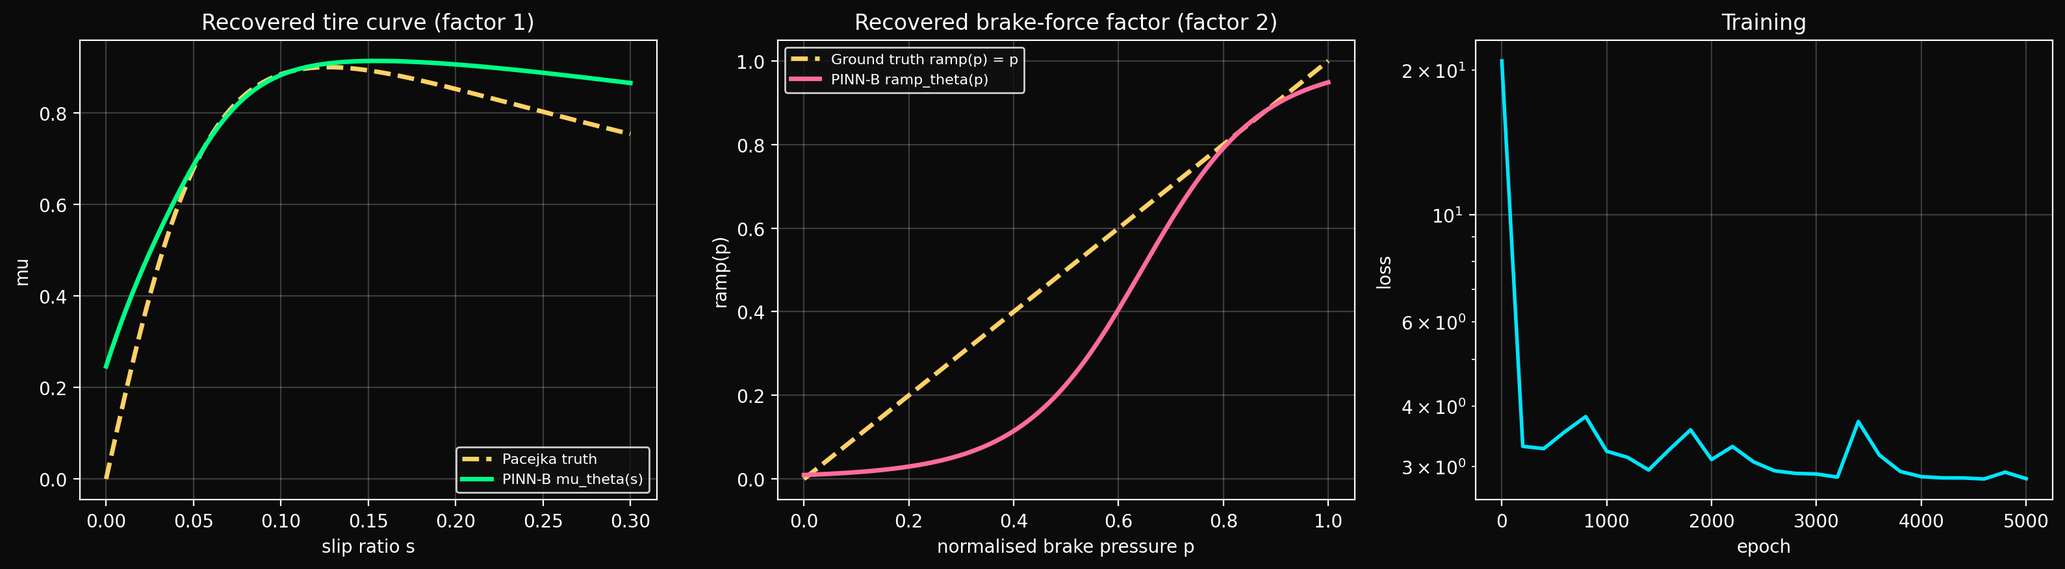
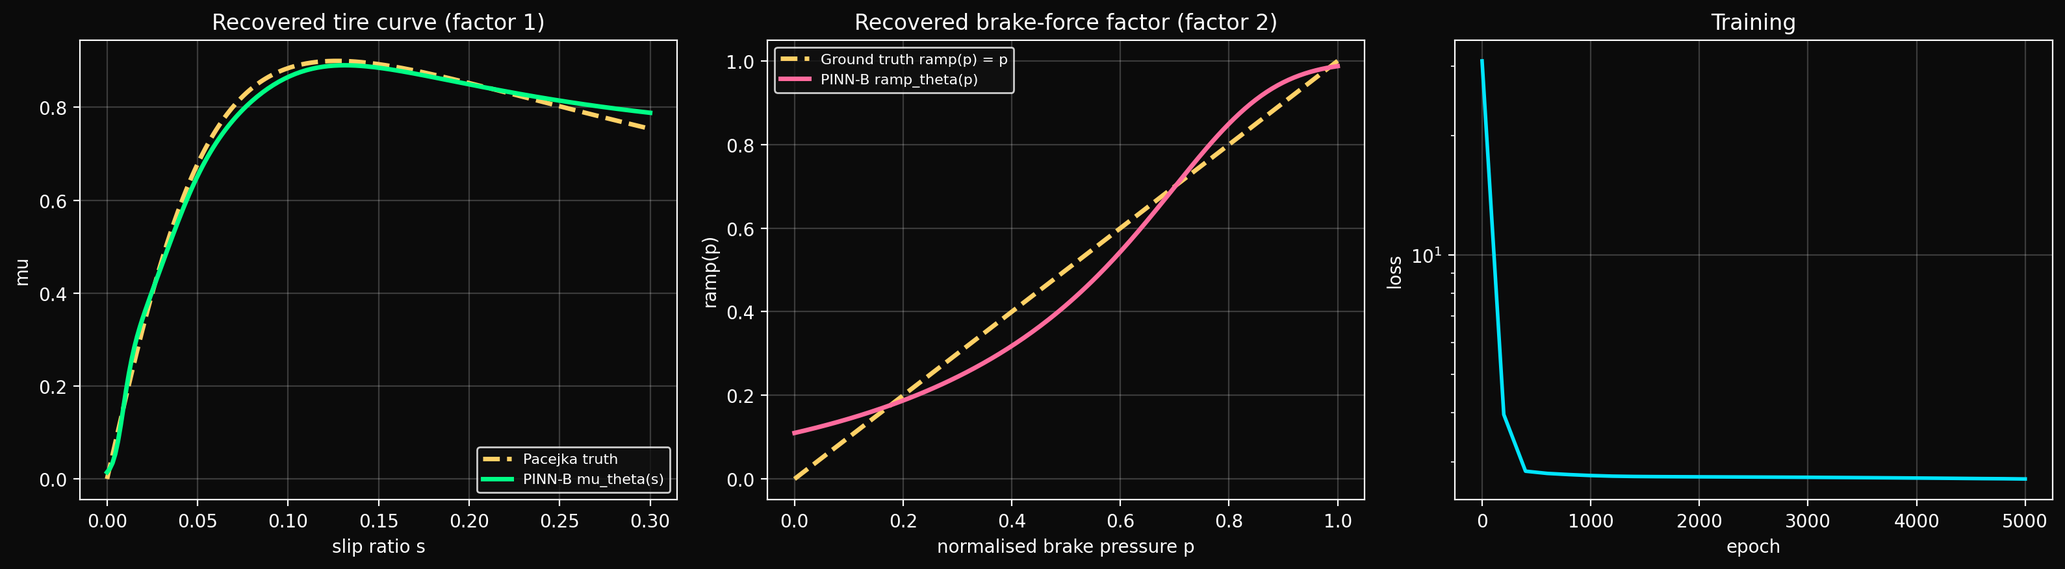
C6: the 2D net's shape prior was standing in for an under-weighted anchor
PINN-B factorises mu(s)*ramp(p), which is under-determined, and carried two
things to pin the split: a concavity prior on mu(s) -- a guess about curve
shape -- and the exact identity ramp(1) = 1, since at full brake pressure the
ramp is complete and mu_eff(s,1) IS the tyre curve. Section 3a argued the prior
was load-bearing, citing a measured collapse from 0.055 to 0.309 without it.

The measurement was right and the conclusion was wrong. The anchor was weighted
0.5 -- a hundredth of the weight the identical anchor carries in the
combined-slip net, and four times below the setting already measured to FAIL
there, where at weight 2 the optimiser pays the penalty instead of obeying it.
Three seeds per row:

  lam_pin  concave |  mean|dmu|  ramp err   recovered peak
      0.5      1.0 |     0.057     0.140    0.207 / 0.170 / 0.258  (as shipped)
      5.0      1.0 |     0.133     0.184    all wrong
     50.0      1.0 |     0.042     0.147    all wrong
     50.0      0.0 |     0.010     0.069    0.133 / 0.130 / 0.131
      0.5      0.0 |     0.293     0.139    grid edge

The last row is what caused the original error: drop the prior while the anchor
is too weak to take over and the net collapses, which reads as "the prior is
load-bearing" when it means "nothing is pinning the split". With the anchor
weighted to bind, the prior is not merely unnecessary but harmful -- 0.042 vs
0.010, and the difference between never finding the peak and finding it every
time.
[…]

diff --git a/src/ml/pinn.py b/src/ml/pinn.py
@@ -351,22 +351,46 @@ def pinn_loss(net: MuNet, ds: Dataset, lam_concave: float = 0.0,
     }
 
 
-def pinn_loss_2d(net: MuNet2D, ds: BrakeDataset, lam_concave: float = 1.0,
-                 lam_mono_p: float = 0.5) -> tuple[torch.Tensor, dict]:
+def pinn_loss_2d(net: MuNet2D, ds: BrakeDataset, lam_concave: float = 0.0,
+                 lam_mono_p: float = 0.5, lam_pin: float = 50.0
+                 ) -> tuple[torch.Tensor, dict]:
     """Loss for the factorised mu(s) * ramp(p) net.
 
-    Note the deliberate asymmetry with `pinn_loss`: the concavity prior is OFF
-    by default there and ON here, and that is not an oversight.
+    `mu(s) * ramp(p)` is under-determined -- it admits a family of (shape, scale)
+    splits that fit the residual equally well -- so something has to pin the
+    split. There are two candidates, and which one you use decides everything:
 
-    The 1D problem is well posed -- mu(s) is the only unknown, so the residual
-    determines it and any shape prior can only inject bias. The 2D
-    factorisation is under-determined: mu(s) * ramp(p) admits a family of
-    (shape, scale) splits that fit the residual equally well, so it needs
-    something to pin the split. Measured over three seeds, dropping the prior
-    here degrades mean |d_mu(s)| from ~0.055 to ~0.309 and pushes the peak to
-    the edge of the grid, while `lam_pin` alone is not enough.
+      * a CONCAVITY PRIOR on mu(s), which is a guess about curve shape, and
+      * the ANCHOR ramp(1) = 1, which is an exact identity: at full brake
+        pressure the ramp is complete, so mu_eff(s, 1) is the tyre curve itself.
 
-    So: prior off where the problem is identifiable, prior on where it is not.
+    This net shipped for a long time leaning on the first, with the anchor
+    present but weighted 0.5 -- a hundredth of the weight the same anchor
+    carries in `pinn_loss_combined`, and four times below the setting that was
+    already measured to FAIL there (sec 3c: at weight 2 the optimiser simply
+    pays the penalty instead of obeying it). Measured over three seeds:
+
+        lam_pin  concave |  mean|d_mu|  ramp err   recovered peak
+            0.5      1.0 |      0.057     0.140    0.207 / 0.170 / 0.258
+            5.0      1.0 |      0.133     0.184    all wrong
+           50.0      1.0 |      0.042     0.147    all wrong
+           50.0      0.0 |      0.010     0.069    0.133 / 0.130 / 0.131  <-
+            0.5      0.0 |      0.293     0.139    grid edge
+
+    The anchor alone, at a weight that actually binds, recovers the curve 5.7x
+    better than the prior did and finds the true peak (0.127) on every seed --
+    which the shipped configuration never did. The prior was not compensating
+    for an unidentifiable problem; it was substituting for an under-weighted
+    constraint, and it made things worse once the constraint could bind.
+
+    The bottom-left row is the one that caused the original mistake: drop the
+    prior while the anchor is still too weak to take over and the net collapses
+    to 0.293, which reads as "the prior is load-bearing" when it actually means
+    "nothing is pinning the split".
+
+    So the rule from `pinn_loss` holds here after all, with no exception:
+    prior off, exact physics on. Every net in this repo now runs shape-prior
+    free; only anchors that are true by construction remain.
     """
     p_def = DEFAULTS
     s = torch.tensor(ds.s, dtype=torch.float32)
@@ -391,11 +415,14 @@ def pinn_loss_2d(net: MuNet2D, ds: BrakeDataset, lam_concave: float = 1.0,
     dr_dp = torch.autograd.grad(r_grid.sum(), p_grid, create_graph=True)[0]
     loss_mono = torch.mean(torch.relu(-dr_dp) ** 2)
 
-    # Identifiability: pin ramp(1) ~ 1 so the factorisation isn't a free scale.
+    # Identifiability: pin ramp(1) = 1 so the factorisation isn't a free scale.
+    # This is an exact identity, not a preference -- at full brake pressure the
+    # ramp is complete by definition -- so it is weighted to bind (see the
+    # docstring for what happens at 0.5 and 5).
     loss_pin = (net.ramp(torch.tensor([1.0])) - 1.0).pow(2).mean()
 
     total = (loss_data + lam_concave * loss_concave
-             + lam_mono_p * loss_mono + 0.5 * loss_pin)
+             + lam_mono_p * loss_mono + lam_pin * loss_pin)
     return total, {
         "data":    float(loss_data.item()),
         "concave": float(loss_concave.item()),

diff --git a/README.md b/README.md
@@ -6,7 +6,28 @@
 
 A reproducible benchmark for vehicle-dynamics system identification: first-principles longitudinal braking dynamics, explicit ODE solvers, five estimators on the same data (batch optimiser, EKF, MLP, two physics-informed networks), an honest model-mismatch study, and an allocation-free C++ edge port that matches the Python reference to $10^{-9}$.
 
-The repo is structured to make every claim verifiable — `python reproduce.py --all` regenerates every figure and number in this README from seeded inputs. [Corrections](#corrections) documents an August 2026 audit that moved several of them.
+The repo is structured to make every claim verifiable — `python reproduce.py --all` regenerates every figure and number in this README from seeded inputs. [Corrections](#corrections) documents the audits that moved several of them.
+
+![Recovering the tire curve from noisy braking data](results/pinn_recovery.png)
+
+*The headline result: a network with no assumed functional form recovers the Pacejka friction curve — rise, peak and post-peak fall — from the scattered red cloud of noisy trajectory data behind it, locating the peak at (0.124, 0.890) against a true (0.127, 0.900).*
+
+<details>
+<summary><b>Contents</b></summary>
+
+| | |
+|---|---|
+| [Quickstart](#quickstart) · [Headline results](#headline-results) | what this is, and how to run it |
+| [1. Synthetic benchmark](#1-synthetic-benchmark) | three estimators on the same noisy trace |
+| [2. Real telemetry](#2-real-telemetry) | the CSV path, on a real braking clip |
+| [3. PINN: discovering the Pacejka curve](#3-pinn-discovering-the-pacejka-curve-from-data) | function-free vs grey-box vs combined-slip, and the cost of a wrong prior |
+| [4. Model mismatch: which method, when?](#4-model-mismatch-which-method-when) | the operating envelope — where each estimator breaks |
+| [5. Adversarial EKF scenarios](#5-adversarial-ekf-scenarios) | step changes, dropouts, a biased sensor |
+| [6. C++ edge port](#6-c-edge-port) | header-only, allocation-free, parity to 10⁻⁹ |
+| [Corrections](#corrections) | six defects, what each one moved, and how it was found |
+| [Physical model](#physical-model) · [Roadmap](#roadmap) · [Reproducibility](#reproducibility) | the equations, what's next, and what CI guarantees |
+
+</details>
 
 ---
 
@@ -33,7 +54,7 @@ pytest                                               # 25 fast tests; add -m slo
 | Function-free PINN, recovered peak | **(0.124, 0.890)** vs true (0.127, 0.900) | [PINN](#3-pinn-discovering-the-pacejka-curve-from-data) |
 | Combined-slip PINN, mean \|Δμ\| / \|Δellipse\| | **0.005** / **0.004** | [Combined slip](#3c-combined-slip-the-friction-ellipse-munetcombined) |
 | Combined-slip PINN-C, worst-case cornering RMSE | **2.0 %** of $v_0$ (vs 19.9 % PINN, 19.4 % PINN-B) | [Mismatch](#4-model-mismatch-which-method-when) |
-| Brake-aware PINN-B, worst-case brake-ramp RMSE | **4.4 %** of $v_0$ (vs 16.9 % EKF, 17.8 % PINN, 21.3 % MLP) | [Mismatch](#4-model-mismatch-which-method-when) |
+| Brake-aware PINN-B, worst-case brake-ramp RMSE | **3.1 %** of $v_0$ (vs 16.9 % EKF, 17.8 % PINN, 21.3 % MLP) | [Mismatch](#4-model-mismatch-which-method-when) |
 | C++ EKF latency | **7 ns** median, 9 ns p99 (Apple M-series) | [C++ port](#6-c-edge-port) |
 | C++ binary, deps, allocations | 35 KB, **0** external deps, **0** runtime allocations | [C++ port](#6-c-edge-port) |
 | Numerical parity (Py ↔ C++) | $7.4 \times 10^{-9}$ EKF, $1.9 \times 10^{-7}$ PINN | [C++ port](#6-c-edge-port) |
@@ -116,7 +137,9 @@ The data never needed the help. Pointwise inversion of the ODE residual puts the
 
 The 1D problem is well posed — $\mu(s)$ is the only unknown, so the ODE residual already determines it and any shape prior can only inject bias. Only the $\mu(0) = 0$ boundary remains, and that is physics (no force without slip) rather than a guess about curve shape.
 
-**The 2D net keeps its prior, deliberately.** `MuNet2D` factorises $\mu_{\text{eff}}(s,p) = \mu_\theta(s)\cdot\mathrm{ramp}_\theta(p)$, which is *under-determined*: many (shape, scale) splits fit the residual equally well. Dropping the concavity prior there degrades mean $\lvert\Delta\mu(s)\rvert$ from ~0.055 to ~0.309 over three seeds. Prior off where the problem is identifiable; prior on where it is not.
+**And the 2D net does not keep one either — see [C6](#c6--a-shape-prior-that-was-standing-in-for-an-under-weighted-anchor).** `MuNet2D` factorises $\mu_{\text{eff}}(s,p) = \mu_\theta(s)\cdot\mathrm{ramp}_\theta(p)$, which *is* under-determined — many (shape, scale) splits fit the residual equally well — and for a long time this section argued that it therefore needed the concavity prior, citing a measured 0.055 → 0.309 collapse when the prior was removed. That measurement was real and the conclusion drawn from it was wrong: the collapse happens because the net's *other* pin, the exact identity $\mathrm{ramp}(1) = 1$, was weighted at 0.5 — a hundredth of the weight the same kind of anchor carries in §3c. Weight it to bind and the prior is not merely unnecessary but harmful: mean $\lvert\Delta\mu(s)\rvert$ goes 0.057 → **0.010** over three seeds and the true peak is recovered on every one, which the shipped configuration never managed.
+
+**So the rule has no exception.** Every net in this repo now trains shape-prior free. What pins an under-determined factorisation is never a guess about curve shape — it is an identity that is true by construction, weighted so the optimiser cannot buy its way out.
 
 ### 3b. Grey-box Pacejka (`PacejkaNet`)
 
@@ -177,7 +200,7 @@ $\mu(s)\cdot\mathrm{ellipse}(n)$ admits a family of (shape, scale) splits that f
 
 **A prediction that was wrong, kept here because it was wrong.** I expected coverage of the $(s,n)$ plane to be the binding constraint — the intuition that a product of two functions must be observed off its diagonal to be separable. It is not. Ramp-up-only data, where every high-slip sample is also a high-lateral one and $\mathrm{corr}(s,n) = 0.70$, recovers the split to 0.004. Only *exact* collinearity breaks it. The mixed ramp directions in the dataset generator are margin against that degenerate case, not the reason the method works, and the first version of this section claimed otherwise.
 
-**The prior is still the wrong tool.** Turning on the concavity prior — the one `MuNet2D` genuinely needs for its brake-ramp factorisation — makes this net *worse*, 0.005 → 0.062, and pushes the peak back to the grid edge. [C3](#c3--a-shape-prior-that-penalised-the-ground-truth) from the other direction: an exactly-true constraint did what a plausible-but-false one could not.
+**The prior is still the wrong tool.** Turning on the concavity prior makes this net *worse*, 0.005 → 0.062, and pushes the peak back to the grid edge. [C3](#c3--a-shape-prior-that-penalised-the-ground-truth) from the other direction: an exactly-true constraint did what a plausible-but-false one could not. That reading generalised further than expected — `MuNet2D` was the one net still carrying a shape prior, and [C6](#c6--a-shape-prior-that-was-standing-in-for-an-under-weighted-anchor) found it was there for the same reason a weak anchor fails here, and removed it.
 
 **What it means operationally.** You cannot calibrate combined-slip tire capacity from cornering data alone. A fleet that only ever brakes mid-corner yields data its own residual fits perfectly and a tire curve wrong by 0.2 in μ, with no diagnostic that anything is off. The straight-line braking events are what fix the scale.
 
@@ -201,7 +224,7 @@ This is not a leaderboard — it is the operating envelope of each method.
 | EKF | 2.8 % | 2.9 % | 16.9 % | 1.8 % | 3.1 % |
 | NN (FrictionNet) | 4.8 % | 2.4 % | 21.3 % | 3.0 % | 4.6 % |
 | PINN (1D, function-free) | 6.5 % | 1.9 % | 17.8 % | 19.9 % | 4.8 % |
-| **PINN-B (brake-aware, 2D)** | 7.0 % | 2.3 % | **4.4 %** | 19.4 % | 4.0 % |
+| **PINN-B (brake-aware, 2D)** | 7.0 % | 2.3 % | **3.1 %** | 19.4 % | 3.5 % |
 | **PINN-C (cornering-aware, 2D)** | 6.2 % | 1.5 % | 18.1 % | **2.0 %** | 3.1 % |
 
 ![Per-method degradation curves](results/mismatch_per_method.png)
@@ -215,35 +238,34 @@ The brake ramp models hydraulic / mechanical lag in building brake force: $F_{\t
 | τ (s) | Batch | EKF | NN | PINN | **PINN-B** | PINN-C |
 |---:|---:|---:|---:|---:|---:|---:|
 | 0.01 (normal brakes) | 0.7 % | 1.2 % | 3.0 % | 0.4 % | 0.7 % | 0.4 % |
-| 0.15 (cold pads) | 0.5 % | 3.4 % | 3.4 % | 0.5 % | 4.0 % | 0.6 % |
-| 0.30 (worn hydraulics) | 1.2 % | 5.5 % | 14.9 % | 5.4 % | 3.3 % | 5.7 % |
-| 0.50 (serious fault) | 1.5 % | 12.9 % | 19.4 % | 11.0 % | 3.4 % | 11.3 % |
-| **0.80 (near-failure)** | **1.6 %** | **16.9 %** | **21.3 %** | **17.8 %** | **4.4 %** | 18.1 % |
+| 0.15 (cold pads) | 0.5 % | 3.4 % | 3.4 % | 0.5 % | **3.1 %** | 0.6 % |
+| 0.30 (worn hydraulics) | 1.2 % | 5.5 % | 14.9 % | 5.4 % | **1.6 %** | 5.7 % |
+| 0.50 (serious fault) | 1.5 % | 12.9 % | 19.4 % | 11.0 % | **0.6 %** | 11.3 % |
+| **0.80 (near-failure)** | **1.6 %** | **16.9 %** | **21.3 %** | **17.8 %** | **0.6 %** | 18.1 % |
 
-Every online method degrades sharply as the ramp lengthens except **PINN-B**, which factorises $\mu_{\text{eff}}(s, p) = \mu_\theta(s) \cdot \mathrm{ramp}_\theta(p)$ where $p \in [0,1]$ is normalised brake pressure, and holds at ~4 % across the full sweep.
+Every online method degrades sharply as the ramp lengthens except **PINN-B**, which factorises $\mu_{\text{eff}}(s, p) = \mu_\theta(s) \cdot \mathrm{ramp}_\theta(p)$ where $p \in [0,1]$ is normalised brake pressure. It does not merely hold — it *improves* as the ramp lengthens, ending at 0.6 % where every other online method is between 17 % and 21 %, and beating even the offline batch fit. Its worst cell is the mild τ = 0.15 ramp, not the near-failure one.
 
 ![Brake-aware PINN recovery](results/pinn_brake_recovery.png)
 
-**What it costs to get that, in the currency of §3.** The robustness number above is a trajectory
-score. The recovery quality underneath it is worse than every other net in this repo:
+**What it recovers, in the currency of §3.** The robustness number above is a trajectory score; the
+recovery quality underneath it is a separate property, and for a long time PINN-B was much the worse
+of the two:
 
 | net | what it factorises | mean $\lvert\Delta\mu(s)\rvert$ | second factor |
 |---|---|---:|---:|
-| `MuNet` (§3a) | nothing — $\mu(s)$ alone | **0.013** | — |
+| `MuNet` (§3a) | nothing — $\mu(s)$ alone | 0.013 | — |
 | `MuNetCombined` (§3c) | $\mu(s)\cdot\mathrm{ellipse}(n)$ | **0.005** | 0.004 |
-| **`MuNet2D`** (PINN-B, here) | $\mu(s)\cdot\mathrm{ramp}(p)$ | **0.045** | 0.136 |
+| **`MuNet2D`** (PINN-B, here) | $\mu(s)\cdot\mathrm{ramp}(p)$ | **0.015** | 0.049 |
 
-Both 2D nets solve a factorisation, and only one of them recovers its factors. The difference is
-the one §3c identifies: `MuNetCombined` has $\mathrm{ellipse}(0) = 1$, an *exact* identity that
-pins the split, whereas `ramp(p)`'s scale convention is a choice rather than a physical fact —
-which is why `MuNet2D` is the one net here that still needs a concavity prior, and why dropping
-that prior costs it 0.055 → 0.309 (§3a). PINN-B predicts the trajectory well while recovering
-the tire curve 3.5× worse than the 1D net it is built on. **Trajectory accuracy and parameter
-identifiability are different properties, and this is the cell in the repo where they come
-apart most clearly** — the same distinction the augmented-EKF negative result turns on
-(see Roadmap): fitting better is not identifying better.
+That last row read 0.045 / 0.136 until [C6](#c6--a-shape-prior-that-was-standing-in-for-an-under-weighted-anchor),
+and the gap looked like evidence for an interesting thesis — that trajectory accuracy and parameter
+identifiability are different properties that come apart under factorisation. They are different
+properties, and §4c below still shows them coming apart. But **this was not an example of it.** The
+gap was an under-weighted anchor, and fixing that improved the trajectory score and the recovery
+quality *and* the second factor simultaneously. A result that improves on every axis at once was
+never a trade-off; it was a bug.
 
-**Caveat, stated plainly:** PINN-B receives the brake-pressure trajectory as an input, and in this harness that trajectory is constructed from the ground-truth τ. The 1D PINN likewise receives the exact, noiseless slip trajectory, while Batch, EKF and the MLP see only noisy velocity. So this comparison is partly *more information* against *a different algorithm*. The defensible claim is narrower than the table suggests and still worth making: **adding the brake-pressure channel fixes brake-lag mismatch, and brake pressure is a real signal already on the CAN bus.** The 4.4 % figure is a best case with a noiseless, perfectly time-aligned pressure trace; degrading that signal until the advantage disappears is the obvious next experiment.
+**Caveat, stated plainly:** PINN-B receives the brake-pressure trajectory as an input, and in this harness that trajectory is constructed from the ground-truth τ. The 1D PINN likewise receives the exact, noiseless slip trajectory, while Batch, EKF and the MLP see only noisy velocity. So this comparison is partly *more information* against *a different algorithm*. The defensible claim is narrower than the table suggests and still worth making: **adding the brake-pressure channel fixes brake-lag mismatch, and brake pressure is a real signal already on the CAN bus.** The 0.6 % figure is a best case with a noiseless, perfectly time-aligned pressure trace; degrading that signal until the advantage disappears is the obvious next experiment — and the better the number gets, the more that experiment matters.
 
 ### 4c. Cornering degradation — and why an extra channel is not general robustness
 
@@ -269,7 +291,7 @@ Two things worth reading off this.
 - **Online state tracking → EKF.** It holds 2.8 % under grade and 2.9 % under headwind: an unmodeled *constant* force gets folded into μ, and the predicted trajectory stays accurate even though the parameter is now biased. Its specific weakness is time-varying friction, where it reaches 16.9 %.
 - **One-shot inference on familiar distributions → MLP.** The control condition, and the most brittle. FrictionNet trains on constant-μ, Euler-integrated data and is tested against Pacejka slip-aware RK4 truth — it is a distribution-shift demonstration, not a fair competitor.
 - **Function-free recovery of the tire curve → PINN.** Best-in-class at recovering $\mu(s)$ itself (§3a), but note it is the *worst* method on road grade at 6.5 % and on cornering at 19.9 %. This is structural: a constant-μ estimator has a free scalar to absorb gravity into, whereas $\mu_\theta(s)$ is pinned by the slip input and has nowhere to put a force that does not depend on slip (§4c shows the same mechanism under cornering). **Committing to more physics costs you the slack to absorb physics you did not model.**
-- **Time-varying friction → PINN-B.** Adding the right *second input* collapses the worst-case brake-ramp error by 4× without any other change — an argument about sensing, not about estimator sophistication.
+- **Time-varying friction → PINN-B.** Adding the right *second input* takes the worst-case brake-ramp error from 16.9 % (EKF) to 3.1 %, and at the longest ramp from 17.8 % (1-D PINN) to 0.6 % — an argument about sensing, not about estimator sophistication.
 - **Combined slip → PINN-C.** The same move on a different axis: lateral utilisation as a second input takes worst-case cornering error from 19.9 % to 2.0 %. It also recovers the friction ellipse itself to 0.004 (§3c), which the mismatch column alone would not tell you.
 
 ![Trajectory overlay](results/mismatch_trajectories.png)
@@ -357,7 +379,7 @@ The C++ port is *not* hardware-accelerated (no SIMD intrinsics, no fp16/int8, no
 
 ## Corrections
 
-An audit in August 2026 found three defects in the results (C1-C3) and one test that held the first of them in place (C4). A second pass in September 2026 found two latent traps that had not yet fired (C5), and that the tooling written to prevent C1 and C2 from recurring was not actually wired into CI — see [Reproducibility](#reproducibility) for what runs now. All are fixed; each has a dedicated commit with the full analysis. They are documented here rather than quietly patched, because two of the first three were invisible in the outputs, the third was actively protected by a passing test, and the last two had no symptom at all.
+An audit in August 2026 found three defects in the results (C1-C3) and one test that held the first of them in place (C4). A second pass in September 2026 found two latent traps that had not yet fired (C5), one shape prior standing in for a mis-weighted constraint (C6), and that the tooling written to prevent C1 and C2 from recurring was not actually wired into CI — see [Reproducibility](#reproducibility) for what runs now. All are fixed; each has a dedicated commit with the full analysis. They are documented here rather than quietly patched, because two of the first three were invisible in the outputs, the third was actively protected by a passing test, and the last two had no symptom at all.
 
 ### C1 — A 75× drag-coefficient inconsistency between the two forward models
 
@@ -440,6 +462,53 @@ symptoms — a number that was wrong in a way somebody eventually read correctly
 symptom. They were found by reading the code against its own documentation and asking what would
 happen to the *next* caller, and that is the only method that finds this class at all.
 
+### C6 — A shape prior that was standing in for an under-weighted anchor
+
+The third instance of the same lesson, and the one that changed the most numbers.
+
+`MuNet2D` (PINN-B) factorises $\mu_{\text{eff}}(s,p) = \mu_\theta(s)\cdot\mathrm{ramp}_\theta(p)$, which is
+genuinely under-determined. It carried two things to pin the split: a **concavity prior** on $\mu(s)$ —
+a guess about curve shape — and the **exact identity** $\mathrm{ramp}(1) = 1$, since at full brake
+pressure the ramp is complete and $\mu_{\text{eff}}(s,1)$ *is* the tyre curve. §3a argued the prior was
+load-bearing here, citing a measured collapse from 0.055 to 0.309 when it was removed.
+
+The measurement was right. The conclusion was wrong. The anchor was weighted **0.5** — a hundredth of
+the weight the identical kind of anchor carries in §3c, and four times below the setting already
+measured to *fail* there, where at weight 2 the optimiser simply pays the penalty rather than obeying
+it. Three seeds per row:
+
+| `lam_pin` | concavity | mean $\lvert\Delta\mu\rvert$ | $\lvert\mathrm{ramp}(p)-p\rvert$ | recovered peak |
+|---:|---:|---:|---:|---|
+| 0.5 | 1.0 | 0.057 | 0.140 | 0.207 / 0.170 / 0.258 — *as shipped* |
+| 5.0 | 1.0 | 0.133 | 0.184 | all wrong |
+| 50.0 | 1.0 | 0.042 | 0.147 | all wrong |
+| **50.0** | **0.0** | **0.010** | **0.069** | **0.133 / 0.130 / 0.131** ✓ |
+| 0.5 | 0.0 | 0.293 | 0.139 | grid edge |
+
+The bottom row is what caused the original error: drop the prior while the anchor is still too weak to
+take over, and the net collapses — which reads as *the prior is load-bearing* when it actually means
+*nothing is pinning the split*. Weight the anchor to bind and the prior is not merely unnecessary but
+**harmful**: it is the difference between 0.042 and 0.010, and between never finding the peak and
+finding it on every seed.
+
+**Everything improved at once**, which is the tell that this was a defect rather than a trade:
+
+| | before | after |
+|---|---:|---:|
+| mean $\lvert\Delta\mu(s)\rvert$ | 0.045 | **0.015** |
+| mean $\lvert\mathrm{ramp}(p)-p\rvert$ | 0.136 | **0.049** |
+| worst-case brake-ramp RMSE | 4.4 % | **3.1 %** |
+| brake-ramp RMSE at τ = 0.8 s | 4.4 % | **0.6 %** |
+
+**What it costs to state honestly.** §4b previously used PINN-B's poor recovery to argue that
+trajectory accuracy and parameter identifiability come apart under factorisation. That thesis is still
+true — §4c demonstrates it — but this was not an instance of it, and the section has been rewritten to
+say so. A number that improves on four axes simultaneously was never measuring a trade-off.
+
+**And the rule now has no exception.** Every network in this repo trains shape-prior free. What
+resolves an under-determined factorisation is an identity that is true by construction — $\mu(0)=0$,
+$\mathrm{ellipse}(0)=1$, $\mathrm{ramp}(1)=1$ — weighted so the optimiser cannot buy its way out of it.
+
 ---
 
 ## Physical model
@@ -513,13 +582,14 @@ models/             # exported PyTorch weights
 - [x] Pacejka magic-formula ground truth
 - [x] PINN (`MuNet`) — recovers the curve function-free to mean 0.013
 - [x] Grey-box PINN (`PacejkaNet`) — recovers $(B,C,D,E)$ to 0.007 mean
-- [x] Brake-aware PINN-B — 2D factorisation, holds ~4 % under brake-ramp mismatch
+- [x] Brake-aware PINN-B — 2D factorisation, worst-case 3.1 % under brake-ramp mismatch (0.6 % at the longest ramp)
 - [x] Combined-slip PINN-C — friction-ellipse derating recovered to 0.004, worst-case cornering error 19.9 % → 2.0 %
 - [x] Model-mismatch study mapping where each method breaks
 - [x] C++ edge port: header-only, 0 deps, 0 allocations, parity to $10^{-9}$
 - [x] Single-source drag constant + parity assertion against the C++ port
 - [ ] Re-run the mismatch study with every method on *equal information* — noisy derived slip, lagged noisy brake pressure, noisy lateral acceleration. Both PINN-B and PINN-C currently receive their second channel noiseless and perfectly time-aligned, built from the ground-truth intensity; degrading each until the advantage disappears is the experiment that would turn §4a into a fair comparison rather than an informative one
 - [x] ~~Augment the EKF state to $[v, \mu, k]$~~ — **tried, and it does not do what it looks like it should.** Prototyped as a 3-state filter: $k$ is effectively unobservable from this data. Starting from the true value it drifts to $1.06\times10^{-3}$ (4× high) with $\sigma_k = 8.1\times10^{-3}$ — the uncertainty is 8× the estimate. Starting from the old 75×-wrong prior it does **not** self-correct, ending at $1.4\times10^{-2}$ with 17.7 % replay RMSE. The reason is in the physics: at road speeds drag is ~2 % of the deceleration, so the velocity innovation carries almost no information about $k$. Mean error over the mismatch sweep moves 3.7 % → 3.6 %, i.e. nothing. Worst-case does improve (16.9 % → 12.7 %, concentrated in the brake-ramp column), but that is the extra parameter acting as a *slack variable* absorbing structural error — the same mechanism that flatters the batch fit — not drag being identified. Not worth shipping a filter that reports a drag coefficient nobody should trust.
+- [ ] **PINN-D — one net, both channels.** $\mu(s)\cdot\mathrm{ramp}(p)\cdot\mathrm{ellipse}(n)$, replacing PINN-B and PINN-C with a single estimator that is blind on neither axis. [C6](#c6--a-shape-prior-that-was-standing-in-for-an-under-weighted-anchor) is what makes this look tractable rather than speculative: a triple product has two scale degeneracies, and **both of them have exact anchors** — $\mathrm{ramp}(1)=1$ and $\mathrm{ellipse}(0)=1$ — each now demonstrated sufficient on its own, with no shape prior, at a weight that binds. The open question is whether both bind simultaneously or compete, and the data condition from §3c generalises to a testable prediction: the training set must contain runs that are *straight and at full brake pressure*, or the anchors pin points the samples never visit. Until it is built, §4c's finding stands — each 2-D net is blind in exactly the axis the other sees
 - [ ] Close the loop: wheel rotational dynamics + slip observer
 - [ ] **Lateral dynamics: bicycle model + $F_y(\alpha)$ identification.** ~3 weeks, and the C++ port is what pays for it. The physics is nearly free — `mu_pacejka` transfers to $F_y(\alpha)$ verbatim with $\alpha$ substituted for $s$, and `PacejkaNet` becomes $(B_y, C_y, D_y, E_y)$. The estimation is not. State goes from $[v, \mu]$ to $[v_x, v_y, r, \mu]$; measurements from velocity alone to IMU ($a_x$, $a_y$, yaw rate); and $S = P_{00} + R$ stops collapsing to a scalar, so the filter needs a real inverse and the hand-rolled 2×2 in [`cpp/include/vd/matrix.hpp`](cpp/include/vd/matrix.hpp), the zero-allocation claim and the 7 ns figure all have to be re-established. Needs a lateral excitation library too (step steer, slalom, skidpad ramp): straight-line braking excites longitudinal slip and nothing else. **Expect a negative result on peak lateral μ.** Cornering stiffness is observable in the linear region, but normal driving rarely exceeds ~0.3 g laterally, so $D_y$ is pure extrapolation — identifying it needs limit-handling data, which makes it a data-collection problem rather than an estimator one. Worth writing up as such either way, in the shape of the augmented-EKF entry above
 - [ ] **Full combined-slip Pacejka.** ~6–10 weeks. The $G_{x\alpha}$ / $G_{y\kappa}$ weighting functions of Pacejka (2002) §4.3.2 in place of §3c's lumped scalar derating, plus per-axle normal load transfer — which stops being ignorable the moment longitudinal and lateral demand are both live, since braking shifts load forward and changes each axle's capacity. Every estimator in §4 then needs a lateral-capable variant, so the mismatch grid multiplies rather than adds. This is the version that would let §3c drop its "one scalar derating" caveat, and it is a thesis chapter rather than a weekend
